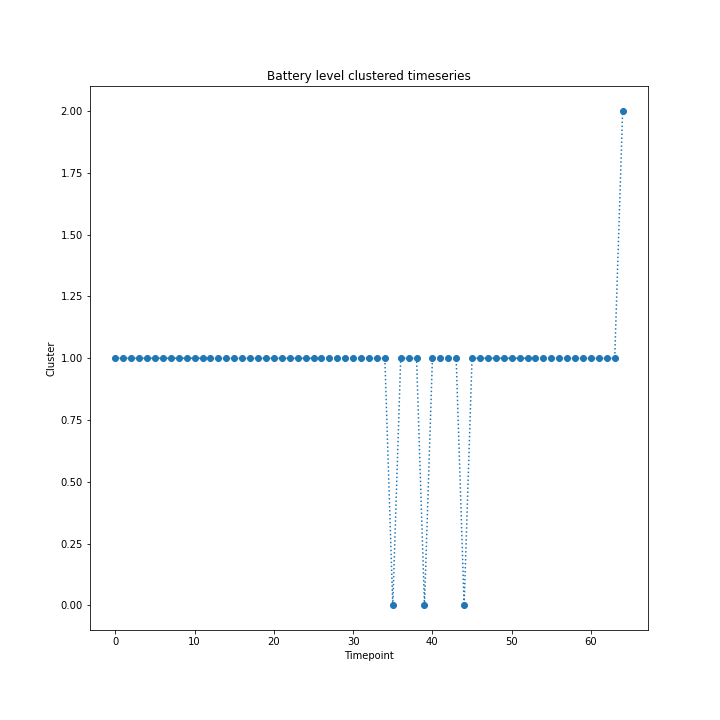
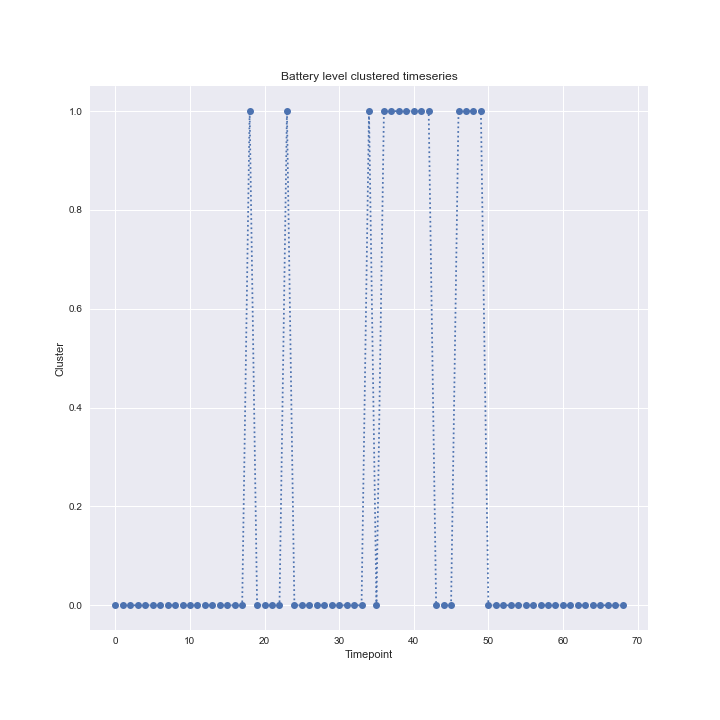
seaborn style

diff --git a/Source/Analysis/process_battery.py b/Source/Analysis/process_battery.py
@@ -17,6 +17,7 @@ from pathlib import Path
 
 # third party imports
 import numpy as np
+import matplotlib.pyplot as plt
 
 # Local application import
 from Source.Analysis.calculate_similarity import calculate_similarity
@@ -26,6 +27,8 @@ from Source.Analysis.plot_similarity import plot_similarity
 from Source.Analysis.cluster_timeseries import cluster_timeseries
 from Source.Analysis.rolling_statistics import rolling_statistics
 from Source.Analysis.summary_statistics import summary_statistics
+
+plt.style.use('seaborn')
 
 def process_battery(df,FIGPATH):
     

diff --git a/Source/Analysis/summary_statistics.py b/Source/Analysis/summary_statistics.py
@@ -21,6 +21,7 @@ from Source.Utils.argument_loader import setup_ps, setup_pd
 import pytest
 from Source.Utils.plot_decorator import plot_decorator
 
+
 @plot_decorator
 def _plot_summary(series,
                    title,
